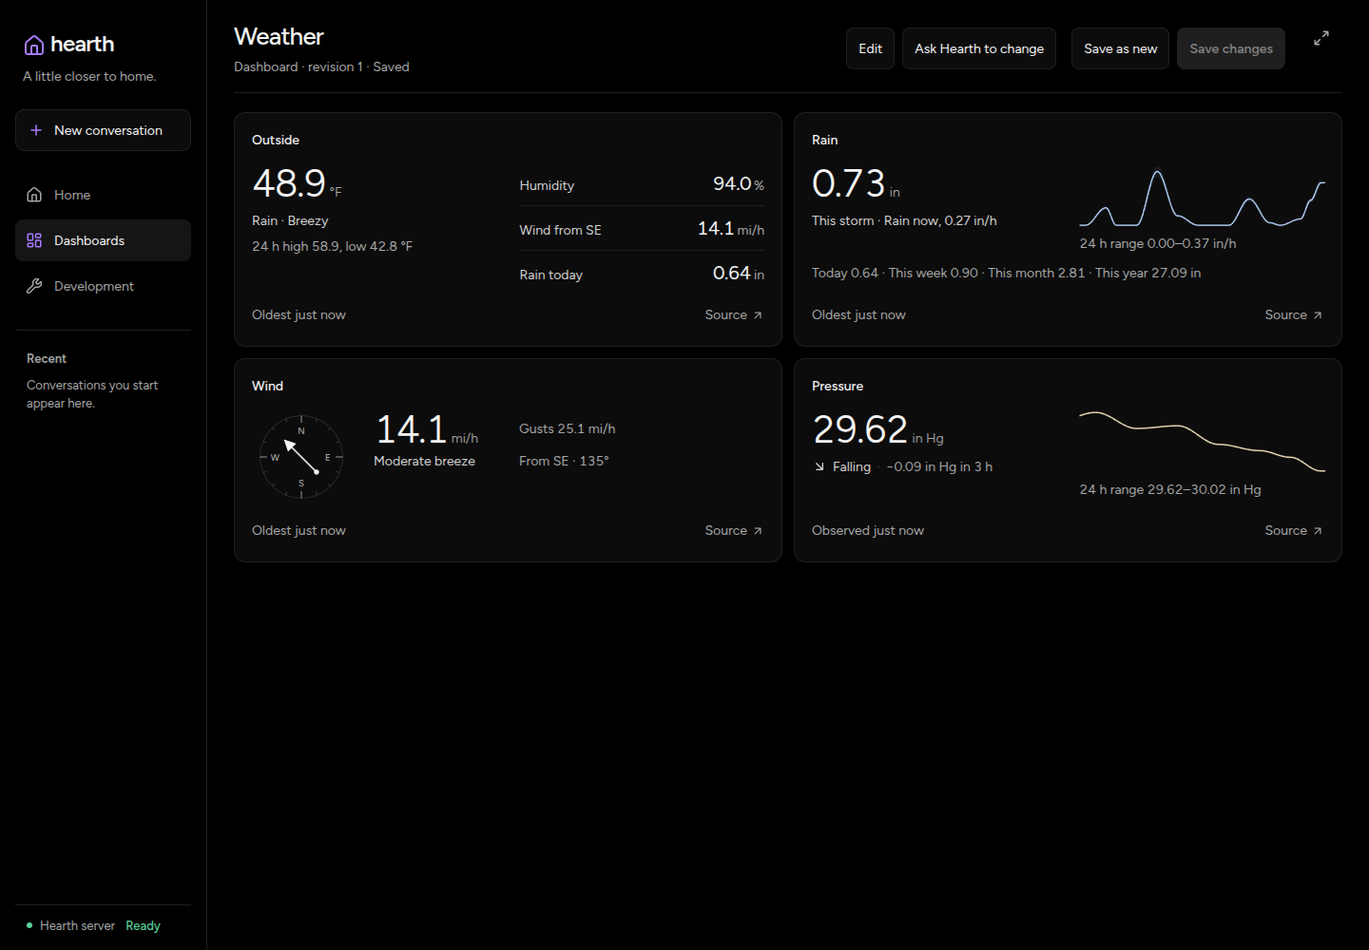
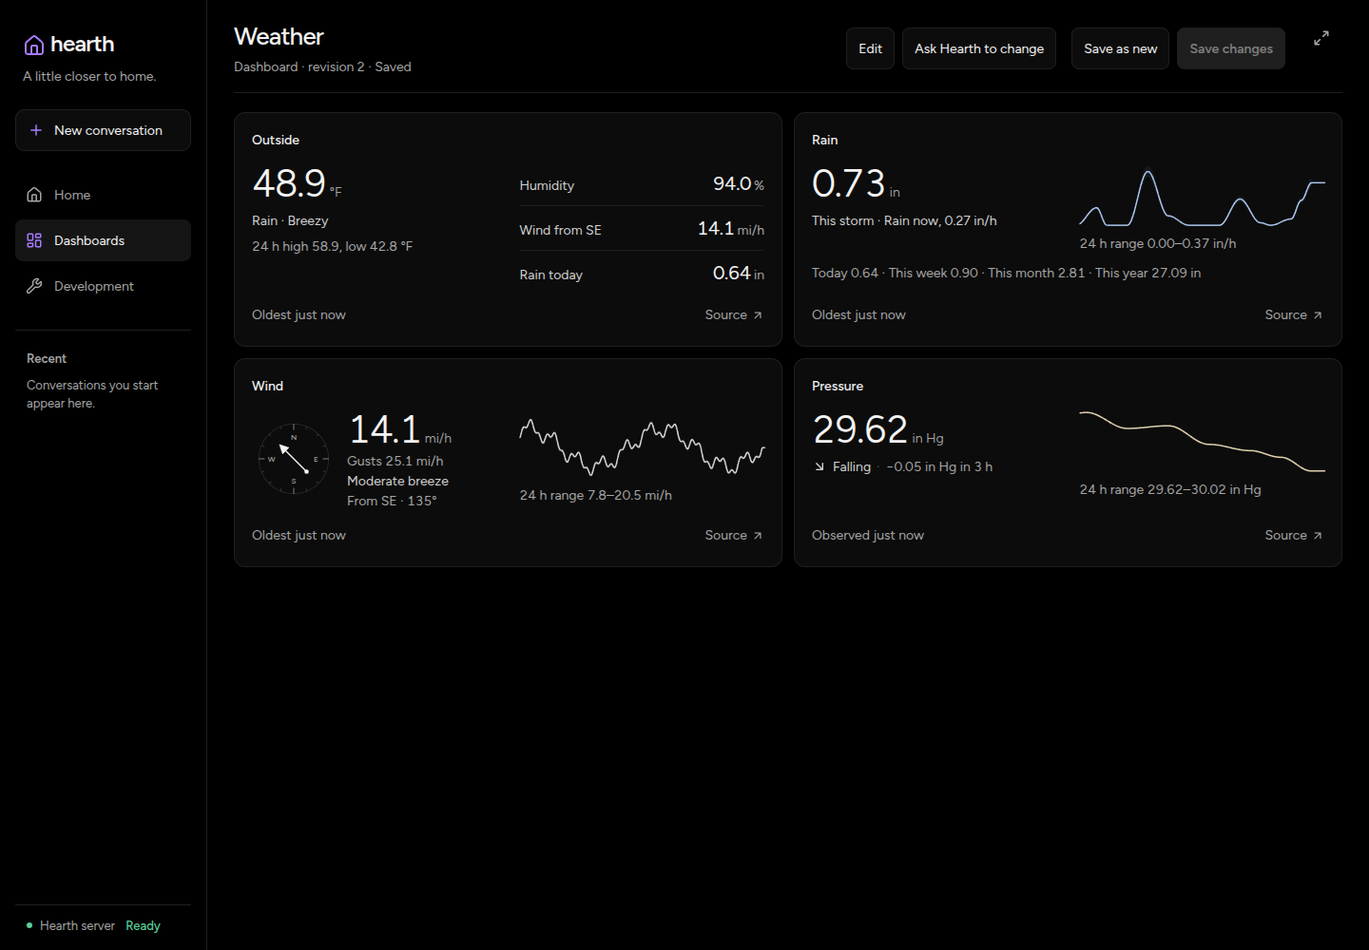
feat(views): add optional wind speed history
Reuse Core's household speed history and the existing Trend renderer. Group compass and readings beside the neutral trend on wide cards, stack on narrow cards, and preserve no-trend layouts. Add editor and contract coverage plus populated Browse captures.

diff --git a/web/src/features/views/cards/weather/views-weather-cards.test.tsx b/web/src/features/views/cards/weather/views-weather-cards.test.tsx
@@ -246,12 +246,60 @@ it.each(["unavailable", "disabled"].flatMap(state => [
 });
 
 it("keeps speed, gusts, Beaufort words, and direction in reading order", async () => {
-  core(station());
+  const api = core(station());
   await mount(<BoundWind speed={source(103, "hearth.speed/v1")} gust={source(111, "hearth.speed/v1")} direction={source(104, "hearth.numericsensor/v1")} />);
   const text = card("Wind").textContent!;
   const order = ["6.3m/s", "Gusts 11.2 m/s", "Moderate breeze", "From SE"].map(reading => text.indexOf(reading));
   expect(order.every(index => index >= 0)).toBe(true);
   expect(order).toEqual([...order].sort((a, b) => a - b));
+  expect(card("Wind").querySelector(".view-trend")).toBeNull();
+  expect(api.requests.some(url => url.includes("/state/history"))).toBe(false);
+});
+
+it.each(["metric", "us"] as const)("shows household Wind speed history with gaps and a Source method (%s)", async system => {
+  const api = core(station(), { 103: minutes => minutes >= 200 && minutes <= 240 ? null : minutes > 600 ? 9.4 : 6.3 }, system);
+  await mount(<BoundWind speed={source(103, "hearth.speed/v1")} gust={source(111, "hearth.speed/v1")} direction={source(104, "hearth.numericsensor/v1")} trend="24h" />);
+  const wind = card("Wind");
+  expect(within(wind).getByText(system === "us" ? "24 h range 14.1–21.0 mi/h" : "24 h range 6.3–9.4 m/s")).toBeTruthy();
+  expect(wind.querySelector(".view-trend-mean")!.getAttribute("d")!.match(/M/g)).toHaveLength(2);
+  expect(wind.querySelector(".view-trend-band")).toBeTruthy();
+  expect(wind.querySelector(".view-weather-main .view-weather-wind")).toBeTruthy();
+  expect(wind.querySelector(".view-weather-aside .view-trend")).toBeTruthy();
+  const histories = api.requests.filter(url => url.includes("/state/history"));
+  expect(histories.length).toBeGreaterThan(0);
+  expect(histories.every(url => url === `/v1/entities/${id(103)}/state/history`)).toBe(true);
+  fireEvent.click(within(wind).getByRole("button", { name: "Source" }));
+  expect(screen.getByText("The trend shows sustained wind speed, not gusts or direction.")).toBeTruthy();
+  expect(screen.getByText(/5-minute interval; the shaded band/)).toBeTruthy();
+  expect(api.posts).toHaveLength(0);
+});
+
+it.each(["empty", "failed"] as const)("keeps current Wind readings when history is %s", async state => {
+  const api = core(station(), { 103: () => null });
+  if (state === "failed") api.historyFailures.add(id(103));
+  await mount(<BoundWind speed={source(103, "hearth.speed/v1")} trend="24h" />);
+  expect(card("Wind").querySelector(".view-metric-value")!.textContent).toBe("6.3m/s");
+  expect(within(card("Wind")).getByText("Moderate breeze")).toBeTruthy();
+  expect(within(card("Wind")).getByText(state === "empty" ? "No history in the last 24 h." : "Couldn't load history.")).toBeTruthy();
+  expect(card("Wind").querySelector(".view-trend-mean")).toBeNull();
+});
+
+it("retains Wind history through refresh failure and restores it without hiding current State", async () => {
+  const histories: Record<number, History> = { 103: minutes => minutes > 600 ? 9.4 : 6.3 };
+  const api = core(station(), histories);
+  await mount(<BoundWind speed={source(103, "hearth.speed/v1")} trend="24h" />);
+  expect(within(card("Wind")).getByText("24 h range 6.3–9.4 m/s")).toBeTruthy();
+  api.historyFailures.add(id(103));
+  api.entities.get(id(103))!.state = { value: 7, observed_at: "2026-11-09T10:01:00Z" };
+  await act(() => vi.advanceTimersByTimeAsync(60_000));
+  expect(card("Wind").querySelector(".view-metric-value")!.textContent).toBe("7.0m/s");
+  expect(within(card("Wind")).getByText("Couldn't refresh history. Showing the last interval.")).toBeTruthy();
+  expect(within(card("Wind")).getByText("24 h range 6.3–9.4 m/s")).toBeTruthy();
+  api.historyFailures.clear(); histories[103] = () => 7;
+  await act(() => vi.advanceTimersByTimeAsync(60_000));
+  expect(within(card("Wind")).queryByText(/Couldn't refresh history/)).toBeNull();
+  expect(within(card("Wind")).getByText("24 h range 7.0–7.0 m/s")).toBeTruthy();
+  expect(api.posts).toHaveLength(0);
 });
 
 it("draws where the wind comes from, but no direction when calm or missing", async () => {
@@ -289,8 +337,10 @@ it.each([
   const failed = api.entities.get(id(number))!;
   if (state === "unavailable") failed.availability = { status: "unavailable" };
   else failed.enabled = false;
-  await mount(<BoundWind speed={speed} direction={direction} />);
+  await mount(<BoundWind speed={speed} direction={direction} trend="24h" />);
 
+  expect(card("Wind").querySelector(".view-trend")!.getAttribute("data-value")).toBe(slot === "speed" ? "dimmed" : "live");
+  expect(!!card("Wind").querySelector(".view-trend-band")).toBe(slot !== "speed");
   expect(within(card("Wind")).getByText("Moderate breeze").getAttribute("data-value")).toBe(slot === "speed" ? "dimmed" : "live");
   expect(within(card("Wind")).getByText(/From SE · 135°/).getAttribute("data-value")).toBe("dimmed");
   expect(within(card("Wind")).getByText(state === "unavailable" ? "Unavailable" : "Disabled")).toBeTruthy();
@@ -299,6 +349,8 @@ it.each([
   failed.availability = { status: "available" };
   failed.enabled = true;
   await act(() => vi.advanceTimersByTimeAsync(10000));
+  expect(card("Wind").querySelector(".view-trend")!.getAttribute("data-value")).toBe("live");
+  expect(card("Wind").querySelector(".view-trend-band")).toBeTruthy();
   expect(within(card("Wind")).getByText("Moderate breeze").getAttribute("data-value")).toBe("live");
   expect(within(card("Wind")).getByText(/From SE · 135°/).getAttribute("data-value")).toBe("live");
   expect(within(card("Wind")).queryByText(state === "unavailable" ? "Unavailable" : "Disabled")).toBeNull();

diff --git a/web/src/features/views/cards/wind/Wind.tsx b/web/src/features/views/cards/wind/Wind.tsx
@@ -1,10 +1,11 @@
 import type { z } from "zod";
 import { CardFrame } from "../CardFrame";
+import { Trend, trendMethod } from "../metric/Trend";
 import { cardStatus } from "../status";
 import { listArrivals, oldestObservation, ReadingRows, rowSources, rowStates } from "../reading-list/ReadingRows";
 import { beaufort, beaufortNames, compassPoint } from "../weather/formulas";
 import { canonicalValue, derivedTreatment, formatReading, shownData } from "../weather/readings";
-import { SlotStatus, slotRows, useWeatherReads, WeatherReading } from "../weather/WeatherParts";
+import { SlotStatus, slotRows, useWeatherReads, WeatherReading, WeatherZones } from "../weather/WeatherParts";
 import { windSchema } from "./schema";
 
 type Props = z.infer<typeof windSchema>;
@@ -28,9 +29,9 @@ function Compass({ bearing, calm, dimmed }: { bearing?: number; calm: boolean; d
 }
 
 /** Wind speed with its Beaufort name, gusts, and where the wind comes from on a compass. */
-export function BoundWind({ label, speed, gust, direction, max_gust }: Props) {
+export function BoundWind({ label, speed, gust, direction, max_gust, trend }: Props) {
   const reads = useWeatherReads<Slot>([
-    ["speed", { source: speed }], ["speedCanonical", { source: speed, units: "canonical" }], ["gust", gust && { source: gust }],
+    ["speed", { source: speed, window: trend }], ["speedCanonical", { source: speed, units: "canonical" }], ["gust", gust && { source: gust }],
     ["direction", direction && { source: direction }], ["max", max_gust && { source: max_gust }],
   ]);
   const reading = reads.current("speed")!, status = cardStatus(reading);
@@ -44,22 +45,26 @@ export function BoundWind({ label, speed, gust, direction, max_gust }: Props) {
   const all = slotRows([["speed", "Wind speed", reading], ["gust", "Gusts", gustReading], ["direction", "Wind direction", directionReading], ["max", "Today's max gust", reads.current("max")]]);
   const displayed = rowStates(all);
   const maxRow = displayed.filter(row => row.key === "max");
+  const history = reads.history("speed");
   return <CardFrame className="view-weather view-wind" title={label ?? "Wind"} status={status.entries}
     observedAt={oldestObservation(displayed)} observedLabel={all.length > 1 ? "Oldest reading" : "Observed"}
     arrivals={listArrivals(displayed)} sources={rowSources(all)} sourceExtra={<>
       <p>Words follow the Beaufort scale for the current wind speed.</p>
       <p>Direction is where the wind comes from; the arrow points where it blows. There is no direction history, because averaging compass bearings gives wrong answers.</p>
+      {trend && <><p>The trend shows sustained wind speed, not gusts or direction.</p>{trendMethod(trend)}</>}
     </>}>
-    <div className="view-weather-wind">
-      {direction && <Compass bearing={bearing} calm={calm} dimmed={directionReading !== undefined && cardStatus(directionReading).value === "dimmed"} />}
-      <div className="view-weather-wind-reading">
-        <WeatherReading data={shownData(reading)} status={status} />
+    <WeatherZones aside={trend && history && status.value !== "empty" && <Trend window={trend} resource={history} dimmed={status.value === "dimmed"} />}>
+      <div className="view-weather-wind">
+        {direction && <Compass bearing={bearing} calm={calm} dimmed={directionReading !== undefined && cardStatus(directionReading).value === "dimmed"} />}
+        <div className="view-weather-wind-reading">
+          <WeatherReading data={shownData(reading)} status={status} />
+        </div>
+        {gustReading && <p className="view-weather-detail view-weather-wind-gust" data-value={cardStatus(gustReading).value}>Gusts {gustData ? formatReading(gustData) : "—"}</p>}
+        {force !== undefined && <p className="view-weather-conditions view-weather-wind-force" data-value={status.value}>{beaufortNames[force]}</p>}
+        {from && !calm && <p className="view-weather-detail view-weather-wind-direction" data-value={derivedTreatment(reading, directionReading)}>From {from.short} · {Math.round(bearing!)}°<span className="sr-only">, from the {from.words}</span></p>}
+        {maxRow.length > 0 && <div className="view-weather-rows view-weather-wind-rows"><ReadingRows rows={maxRow} /></div>}
       </div>
-      {gustReading && <p className="view-weather-detail view-weather-wind-gust" data-value={cardStatus(gustReading).value}>Gusts {gustData ? formatReading(gustData) : "—"}</p>}
-      {force !== undefined && <p className="view-weather-conditions view-weather-wind-force" data-value={status.value}>{beaufortNames[force]}</p>}
-      {from && !calm && <p className="view-weather-detail view-weather-wind-direction" data-value={derivedTreatment(reading, directionReading)}>From {from.short} · {Math.round(bearing!)}°<span className="sr-only">, from the {from.words}</span></p>}
-      {maxRow.length > 0 && <div className="view-weather-rows view-weather-wind-rows"><ReadingRows rows={maxRow} /></div>}
-    </div>
+    </WeatherZones>
     <SlotStatus name="Gusts" resource={gustReading} />
     <SlotStatus name="Wind direction" resource={directionReading} />
   </CardFrame>;

diff --git a/web/src/features/views/editor/views-editor.test.tsx b/web/src/features/views/editor/views-editor.test.tsx
@@ -4,8 +4,23 @@ import { ViewEditor } from "./ViewEditor";
 import type { ViewDefinition } from "../catalog";
 import { TimeSeriesEditor } from "../cards/time-series/Editor";
 import { ToggleListEditor } from "../cards/toggle-list/Editor";
+import { WindEditor } from "../cards/wind/Editor";
 
 afterEach(() => { cleanup(); vi.restoreAllMocks(); });
+it("adds, changes, and removes Wind speed history without changing its slots", () => {
+  const speed = { kind: "entity-state" as const, entity_id: "ent_019a3e6a-4111-7000-8000-000000000001", entity_type: "hearth.speed/v1" as const };
+  const onChange = vi.fn();
+  const { rerender } = render(<WindEditor value={{ speed }} choices={[]} onChange={onChange} />);
+  expect((screen.getByLabelText("Trend") as HTMLSelectElement).value).toBe("");
+  for (const trend of ["1h", "6h", "24h", "7d"] as const) {
+    fireEvent.change(screen.getByLabelText("Trend"), { target: { value: trend } });
+    expect(onChange).toHaveBeenLastCalledWith({ speed, trend });
+    rerender(<WindEditor value={{ speed, trend }} choices={[]} onChange={onChange} />);
+    expect((screen.getByLabelText("Trend") as HTMLSelectElement).value).toBe(trend);
+  }
+  fireEvent.change(screen.getByLabelText("Trend"), { target: { value: "" } });
+  expect(onChange).toHaveBeenLastCalledWith({ speed, trend: undefined });
+});
 it("distinguishes power endpoints on the same Device and falls back to identity for duplicate names", () => {
   const first = "ent_019a3e6a-4111-7000-8000-000000000001", second = "ent_019a3e6a-4111-7000-8000-000000000002", third = "ent_019a3e6a-4111-7000-8000-000000000003";
   const choices = [

diff --git a/web/src/index.css b/web/src/index.css
@@ -532,6 +532,10 @@
   .view-weather-wind:has(> .view-weather-compass) { grid-template-columns:auto minmax(max-content,1fr) minmax(0,2fr); grid-template-areas:"compass reading gust" "compass force direction" "compass . rows"; }
   .view-weather-wind-gust, .view-weather-wind-direction { overflow-wrap:anywhere; }
   .view-weather-wind-rows { margin-top:4px; }
+  .view-wind .view-weather-zones:has(> .view-weather-aside) { grid-template-columns:minmax(max-content,1fr) minmax(0,1fr); align-items:center; }
+  .view-wind .view-weather-zones:has(> .view-weather-aside) .view-weather-wind { grid-template-columns:minmax(0,1fr); grid-template-areas:"reading" "gust" "force" "direction" "rows"; }
+  .view-wind .view-weather-zones:has(> .view-weather-aside) .view-weather-wind:has(> .view-weather-compass) { grid-template-columns:auto minmax(0,1fr); grid-template-areas:"compass reading" "compass gust" "compass force" "compass direction" "rows rows"; column-gap:12px; }
+  .view-wind .view-weather-zones:has(> .view-weather-aside) .view-weather-compass { width:88px; height:88px; }
 }
 .view-weather-tendency { display:flex; flex-wrap:wrap; align-items:center; gap:2px 6px; color:var(--gray-9); font-size:14px; line-height:1.5; font-variant-numeric:tabular-nums; }
 .view-weather-tendency svg { width:16px; height:16px; flex-shrink:0; }

diff --git a/web/src/features/views/cards/wind/Editor.tsx b/web/src/features/views/cards/wind/Editor.tsx
@@ -1,4 +1,6 @@
 import type { z } from "zod";
+import { seriesWindows } from "../../bindings/schema";
+import type { SeriesWindow } from "../../bindings/types";
 import { TextField } from "../../editor/TextField";
 import type { SensorChoice } from "../time-series/Editor";
 import { sensorUnits } from "../weather/schema";
@@ -15,5 +17,8 @@ export function WindEditor({ value, choices, onChange }: { value: Value; choices
     <SlotSelect label="Gusts" optional value={value.gust} {...speed} onChange={gust => onChange({ ...value, gust })} />
     <SlotSelect label="Wind direction" optional value={value.direction} choices={choices} type="hearth.numericsensor/v1" unit={sensorUnits.direction} onChange={direction => onChange({ ...value, direction })} />
     <SlotSelect label="Today's max gust" optional value={value.max_gust} {...speed} onChange={max_gust => onChange({ ...value, max_gust })} />
+    <label>Trend<select value={value.trend ?? ""} onChange={event => onChange({ ...value, trend: event.target.value ? event.target.value as SeriesWindow : undefined })}>
+      <option value="">No trend</option>{seriesWindows.map(window => <option key={window} value={window}>{window}</option>)}
+    </select></label>
   </>;
 }

diff --git a/web/src/features/views/cards/wind/schema.ts b/web/src/features/views/cards/wind/schema.ts
@@ -1,4 +1,5 @@
 import { z } from "zod";
+import { seriesWindows } from "../../bindings/schema";
 import { plainText } from "../../catalog/primitives";
 import { sensorReading, sensorUnits, typedReading } from "../weather/schema";
 
@@ -10,4 +11,5 @@ export const windSchema = z.strictObject({
   gust: speed.describe("Current gust speed.").optional(),
   direction: sensorReading(sensorUnits.direction).describe("Wind direction in deg: where the wind comes from, drawn on a compass.").optional(),
   max_gust: speed.describe("The station's maximum gust today.").optional(),
+  trend: z.enum(seriesWindows).describe("Draw sustained wind-speed history over this window; direction stays current-only.").optional(),
 });

diff --git a/internal/modules/dashboards/view_weather_bindings.go b/internal/modules/dashboards/view_weather_bindings.go
@@ -122,11 +122,16 @@ func windBindings(raw json.RawMessage) ([]binding, error) {
 		Gust      *binding `json:"gust"`
 		Direction *binding `json:"direction"`
 		MaxGust   *binding `json:"max_gust"`
+		Trend     string   `json:"trend"`
 	}
 	if err := json.Unmarshal(raw, &props); err != nil {
 		return nil, err
 	}
-	result := []binding{weatherReading(props.Speed, "")}
+	speed := weatherReading(props.Speed, "")
+	result := []binding{speed}
+	if props.Trend != "" {
+		result = append(result, weatherHistory(speed, props.Trend))
+	}
 	result = appendOptional(result, props.Gust, "")
 	result = appendOptional(result, props.Direction, unitDegrees)
 	return appendOptional(result, props.MaxGust, ""), nil

diff --git a/internal/app/hearthd/http_contract_test.go b/internal/app/hearthd/http_contract_test.go
@@ -83,7 +83,7 @@ func TestHTTPTransportContractSnapshot(t *testing.T) {
 	// Includes paths, wire schemas, component names, references and publication
 	// metadata. Intentional API extensions update this digest alongside contract tests.
 	got := fmt.Sprintf("%x", sha256.Sum256(response.Body.Bytes()))
[2 lines of base64/hex data omitted]
 	if got != want {
 		t.Fatalf("HTTP/OpenAPI contract changed: SHA-256 = %s, want %s", got, want)
 	}

diff --git a/internal/modules/dashboards/view_test.go b/internal/modules/dashboards/view_test.go
@@ -149,6 +149,7 @@ func TestRejectedExamplesNameTheViolatedRule(t *testing.T) {
 		"outside-now-wrong-type":           schema,
 		"rain-total-field":                 schema,
 		"wind-unknown-slot":                schema,
+		"wind-invalid-trend":               schema,
 		"toggle-tile-binary-sensor":        schema,
 		"toggle-tile-boolean-metric":       "ToggleTile metrics and details need numeric State fields",
 		"toggle-list-duplicate-row":        "a ToggleList shows each power Entity once",

diff --git a/docs/design/weather-cards/restored-conditions/README.md b/docs/design/weather-cards/restored-conditions/README.md
@@ -1,9 +1,10 @@
 # Weather cards with full synthetic history
 
-These screenshots show production React and Core from checkpoint `6a86a69`
-with the subsequent 50% weather-trend color treatment, captured through Browse
-on November 11, 2026. The history is synthetic, seeded directly into this
-worktree's simulator database to inspect complete trend lines. The browser does
+These screenshots show production React and Core after the approved Wind-history
+follow-up to `b44ab8c`, captured through Browse on November 11, 2026. Rain,
+Pressure, and disabled Rain/Pressure close-ups retain their earlier `b44ab8c`
+captures because those treatments are unchanged. The history is synthetic,
+seeded directly into this worktree's simulator database to inspect complete trend lines. The browser does
 not mock API responses, and no household Devices or model turns were used.
 
 ## Fixture
@@ -39,29 +40,40 @@ The seed script, backup, API responses, and original Browse captures remain
 locally under `.data/verification/weather-full-history/`. The database and
 backup are not checked into Git.
 
+The Wind follow-up backed up the stopped database again, then added 26 hours
+of sustained-speed history to the existing wind Entity: 4,680 Observations and
+1,560 matching minute rollups. The synthetic speed varies around the current
+6.3 m/s. Core returned all 288 five-minute buckets, with a range of
+3.489–9.1584 m/s in metric and 7.8047–20.4868 mi/h in US units.
+Its backup, seed, and API evidence remain under
+`.data/verification/weather-wind-history/`. No browser responses were mocked.
+
 ## Captures
 
 | Capture | What it shows |
 | --- | --- |
-| [Metric desktop](metric-desktop.png) | 1440×1000; complete 24-hour rain and pressure curves in the two-zone layout |
+| [Metric desktop](metric-desktop.png) | 1440×1000; complete 24-hour rain, wind-speed, and pressure curves in the two-zone layout |
 | [US desktop](us-desktop.png) | The same dashboard with household-projected readings and history |
 | [Intermediate desktop](metric-intermediate.png) | 1100×1000; stacked content and full-width trends |
 | [Metric three columns](metric-three-columns.png) | Three-column layout at 1440×1000 |
 | [Metric four columns](metric-four-columns.png) | Four-column layout at 1440×1000 |
-| [Metric phone](metric-phone.png) | 390×900; the top of the single-column dashboard |
+| [Metric phone](metric-phone.png) | 390×1000; the top of the single-column dashboard |
 | [Phone Rain](metric-phone-rain.png) | Element capture showing the full 24-hour rain curve and totals |
 | [Phone Pressure](metric-phone-pressure.png) | Element capture showing the falling curve and three-hour tendency |
-| [Phone Wind](metric-phone-wind.png) | Element capture retaining the compass and reading order |
+| [Phone Wind](metric-phone-wind.png) | Current readings above the full-width sustained-speed trend |
+| [US phone Wind](us-phone-wind.png) | The same stacked card, with speed and history projected to mi/h by Core |
 | [US phone Pressure](us-phone-pressure.png) | Element capture with the tendency and range in inches of mercury |
 | [Disabled trends](metric-disabled.png) | Real disabled fixture Entities retain dashed-gray lines and omit the bands |
+| [Disabled Wind](wind-disabled.png) | Disabling the real wind-speed Entity dims the reading and gives its trend a dashed-gray line without a band |
+| [Wind variants](wind-variants-boundary.png) | Optional max gust, speed-only, no-compass, and no-trend cards at exactly 460px content width, with a 100.0 mi/h reading |
 
 ## Observed result
 
-Both rain and pressure draw one continuous path across the full trend width,
+Rain, Wind, and Pressure draw one continuous path across the full trend width,
 with a nonempty min–max band. Wide cards use a 72px plot; narrow cards retain
 the 44px plot. The curves, labels, and footers remain within their card bounds.
-The pressure card shows **Falling · −3.0 hPa in 3 h**, or
-**Falling · −0.09 in Hg in 3 h** in the US household. Browse also verified that
+Pressure remains Falling; its exact three-hour change varies with capture time
+as the steady-current fixture fills the recent interval. Browse also verified that
 Source describes the five-minute sample means, min–max band, and tendency method.
 
 Live Rain lines blend dusk blue (`--chart-4`) equally with `--gray-9`; Pressure
@@ -71,6 +83,19 @@ colors at 8% opacity. Computed line contrast against the card surface is about
 neutral. The final captures use the real stylesheet after removing the
 temporary browser preview.
 
+Wind adds an optional 1 h, 6 h, 24 h, or 7 d trend of sustained speed, not gusts
+or direction. The editor saved 24 h on the local dashboard, and a Core read
+confirmed the saved definition. At 1440px, its 577px-wide card is 220px tall
+instead of the previous 215px. An 88px compass and current readings fill the
+left zone; a neutral 72px trend and its range fill the right. Narrow cards stack
+the trend below the readings. Source states the sample-mean and min–max method.
+The disabled Wind trend recovered after re-enabling the Entity.
+
+The 100.0 mi/h check used a temporary simulator publication matched by its
+Observation ID in Core. Wind then returned to 6.3 m/s, with its ticker resumed.
+That one high-speed fixture Observation was removed from the stopped local
+database and its rollup rebuilt before the normal final captures.
+
 The disabled-state check temporarily disabled the local rain-rate and pressure
 Entities through Core's metadata API. Both trends rendered gray with 4px/3px
 dashes and no band. Both Entities were re-enabled and confirmed before the
@@ -79,7 +104,7 @@ production status rules.
 
 This fixture bypasses Adapter ingestion for historical samples. It verifies
 Core's real history queries, household projection, and rendered cards, not
-backdated ingestion or physical sensor behavior. The only production UI change
-for the color follow-up is scoped CSS for these two weather trends. The owned
-Browse session and local stack were stopped;
-the seeded database is retained for inspection.
+backdated ingestion or physical sensor behavior. These captures use the real
+Wind component and stylesheet, not the earlier illustrative DOM preview.
+Phone row images are lossless crops of Browse screenshots. The owned Browse
+session and local stack were stopped; the seeded database is retained for inspection.

diff --git a/DESIGN.md b/DESIGN.md
@@ -271,6 +271,14 @@ for the displayed value before allocating space to details. Rain's totals
 sentence spans both halves below. Narrower cards keep the single column;
 the card's available width, not its grid's column count, chooses the layout.
 
+Wind may add a sustained-speed trend over 1 h, 6 h, 24 h, or 7 d, using the
+same speed Entity and Core's household units. Direction stays current-only.
+With a trend on a wide card, Wind groups its current readings beside an 88px
+compass on the left and a neutral 72px trend with its range on the right.
+The reading group reserves its intrinsic width before allocating space to
+the trend. Narrow cards stack the trend below the current readings and keep
+their usual compass size. Without a trend, Wind keeps its existing layout.
+
 Live Rain trends use dusk blue (`--chart-4`), and Pressure uses pale gold
 (`--chart-5`). Their lines mix equal parts of that color and `--gray-9` in
 OKLCH; the min–max band uses the chart color at 8% opacity. Readings, labels,
